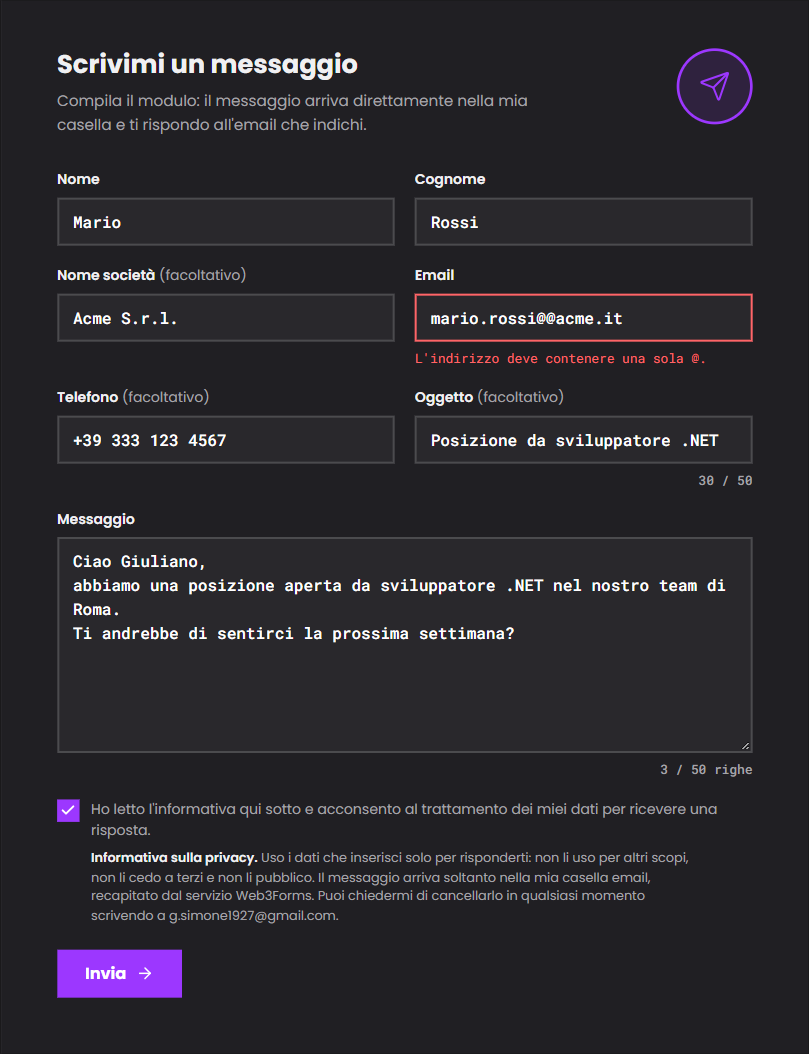
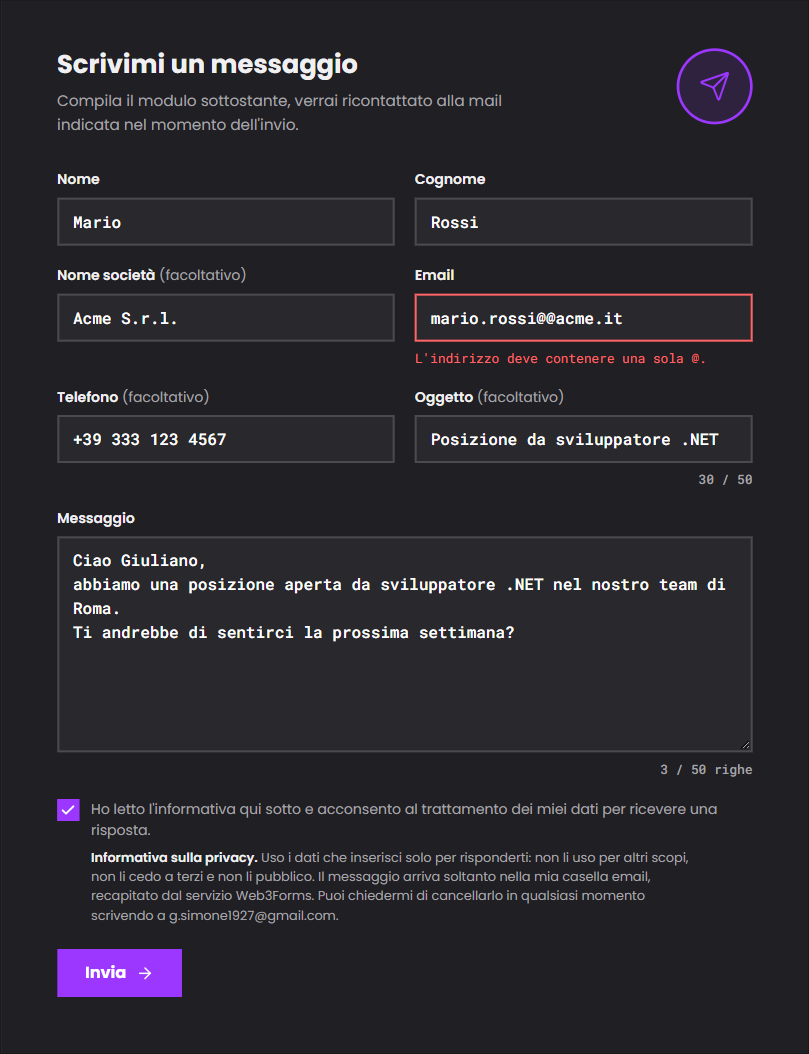
Cambia il testo sotto «Scrivimi un messaggio» nel form
Il testo diventa «Compila il modulo sottostante, verrai ricontattato
alla mail indicata nel momento dell'invio.». Si rifà anche la
schermata del form usata nella pagina del progetto.

diff --git a/src/lib/site.ts b/src/lib/site.ts
@@ -404,8 +404,7 @@ export const contact = {
   // Form di contatto: i messaggi arrivano a site.email tramite Web3Forms (chiave in .env.local)
   form: {
     title: "Scrivimi un messaggio",
-    intro:
-      "Compila il modulo: il messaggio arriva direttamente nella mia casella e ti rispondo all'email che indichi.",
+    intro: "Compila il modulo sottostante, verrai ricontattato alla mail indicata nel momento dell'invio.",
     fields: {
       firstName: { label: "Nome", placeholder: "Mario" },
       lastName: { label: "Cognome", placeholder: "Rossi" },
